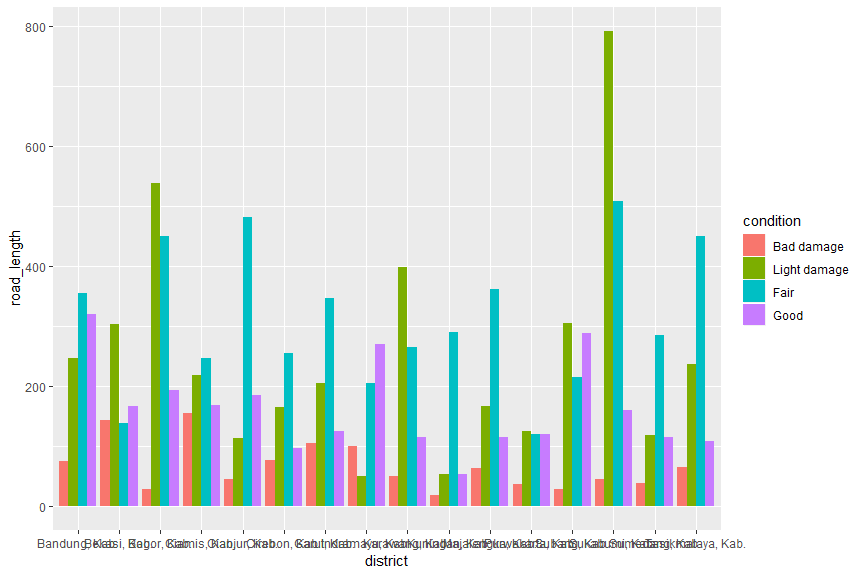
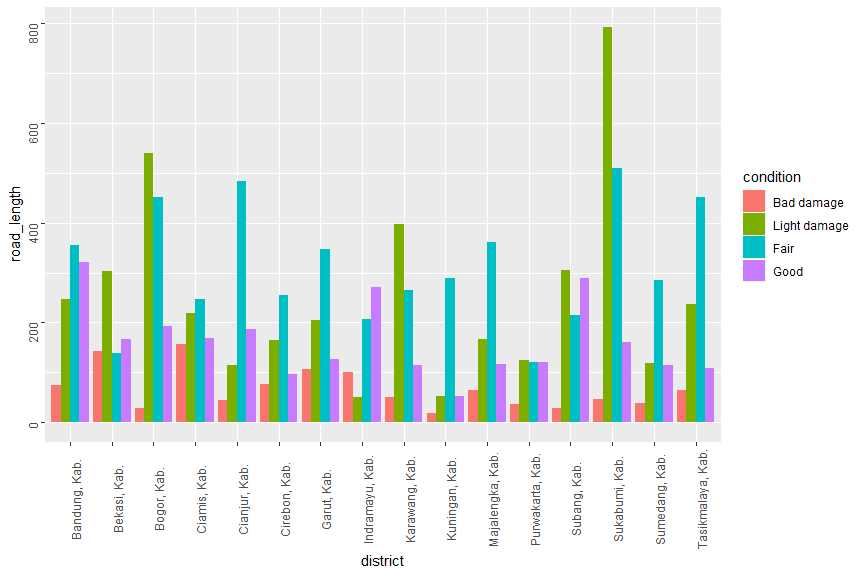
babak-2b

diff --git a/vignettes/003_membuat-grafik.md b/vignettes/003_membuat-grafik.md
@@ -505,7 +505,8 @@ plot*. Fungsi yang digunakan untuk hal ini adalah `geom_col()`.
 jabar_road %>% 
   filter(condition == "Good") %>% 
   ggplot(aes(x = district, y = road_length)) +
-  geom_col()
+  geom_col()+
+  theme(axis.text = element_text(angle = 90))
 ```
 
 <img src="003_membuat-grafik_files/figure-gfm/unnamed-chunk-12-1.png" style="display: block; margin: auto;" />
@@ -519,7 +520,8 @@ argumen `position = "dodge"` pada fungsi `geom_col()`. Gunakan variabel
 
 ``` r
 ggplot(jabar_road, aes(x = district, y = road_length, fill = condition)) +
-  geom_col(position = "dodge")
+  geom_col(position = "dodge") +
+  theme(axis.text = element_text(angle = 90))
 ```
 
 <img src="003_membuat-grafik_files/figure-gfm/unnamed-chunk-13-1.png" style="display: block; margin: auto;" />
@@ -531,7 +533,8 @@ melakukannya.
 
 ``` r
 ggplot(jabar_road, aes(x = district, y = road_length, fill = condition)) +
-  geom_col()
+  geom_col()+
+  theme(axis.text = element_text(angle = 90))
 ```
 
 <img src="003_membuat-grafik_files/figure-gfm/unnamed-chunk-14-1.png" style="display: block; margin: auto;" />
@@ -543,7 +546,8 @@ fill`.
 
 ``` r
 ggplot(jabar_road, aes(x = district, y = road_length, fill = condition)) +
-  geom_col(position = "fill")
+  geom_col(position = "fill")+
+  theme(axis.text = element_text(angle = 90))
 ```
 
 <img src="003_membuat-grafik_files/figure-gfm/unnamed-chunk-15-1.png" style="display: block; margin: auto;" />
@@ -556,7 +560,8 @@ scales::percent)`.
 ``` r
 ggplot(jabar_road, aes(x = district, y = road_length, fill = condition)) +
   geom_col(position = "fill") +
-  scale_y_continuous(labels = scales::percent)
+  scale_y_continuous(labels = scales::percent)+
+  theme(axis.text = element_text(angle = 90))
 ```
 
 <img src="003_membuat-grafik_files/figure-gfm/unnamed-chunk-16-1.png" style="display: block; margin: auto;" />
